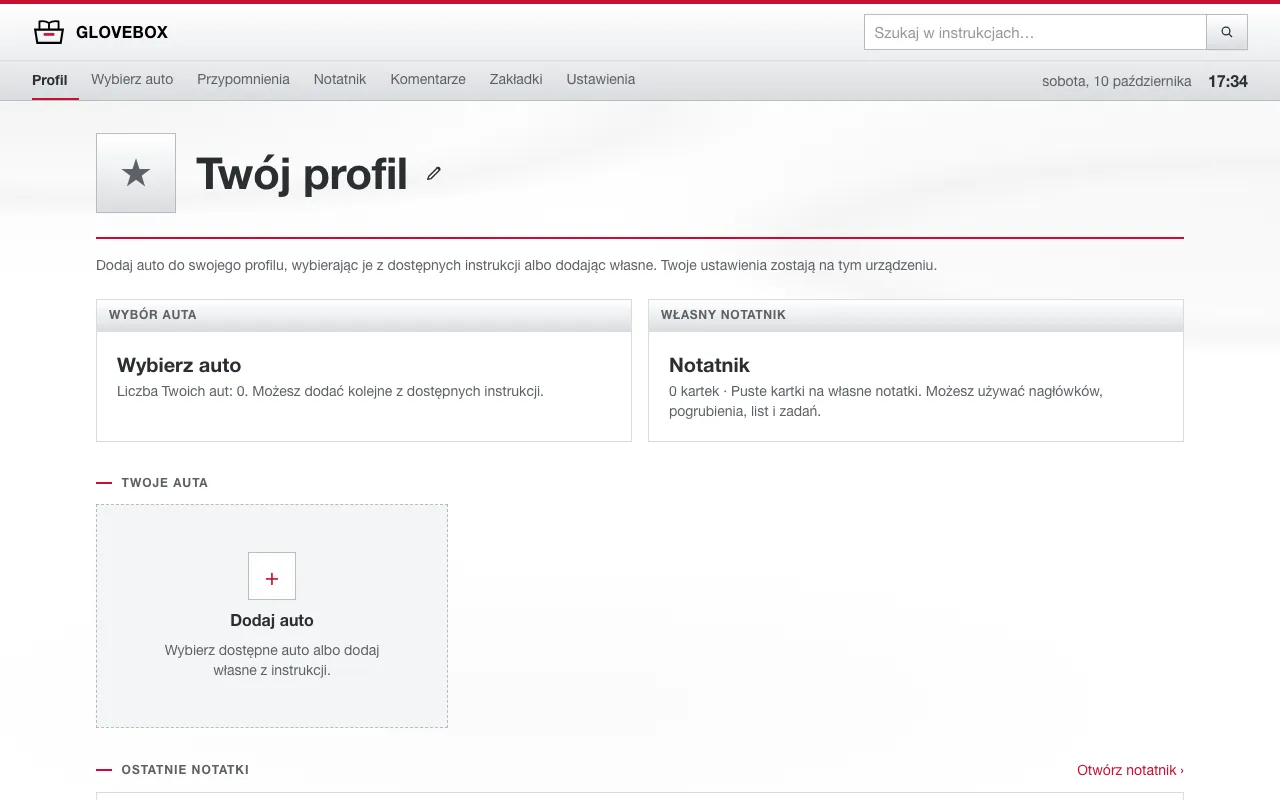
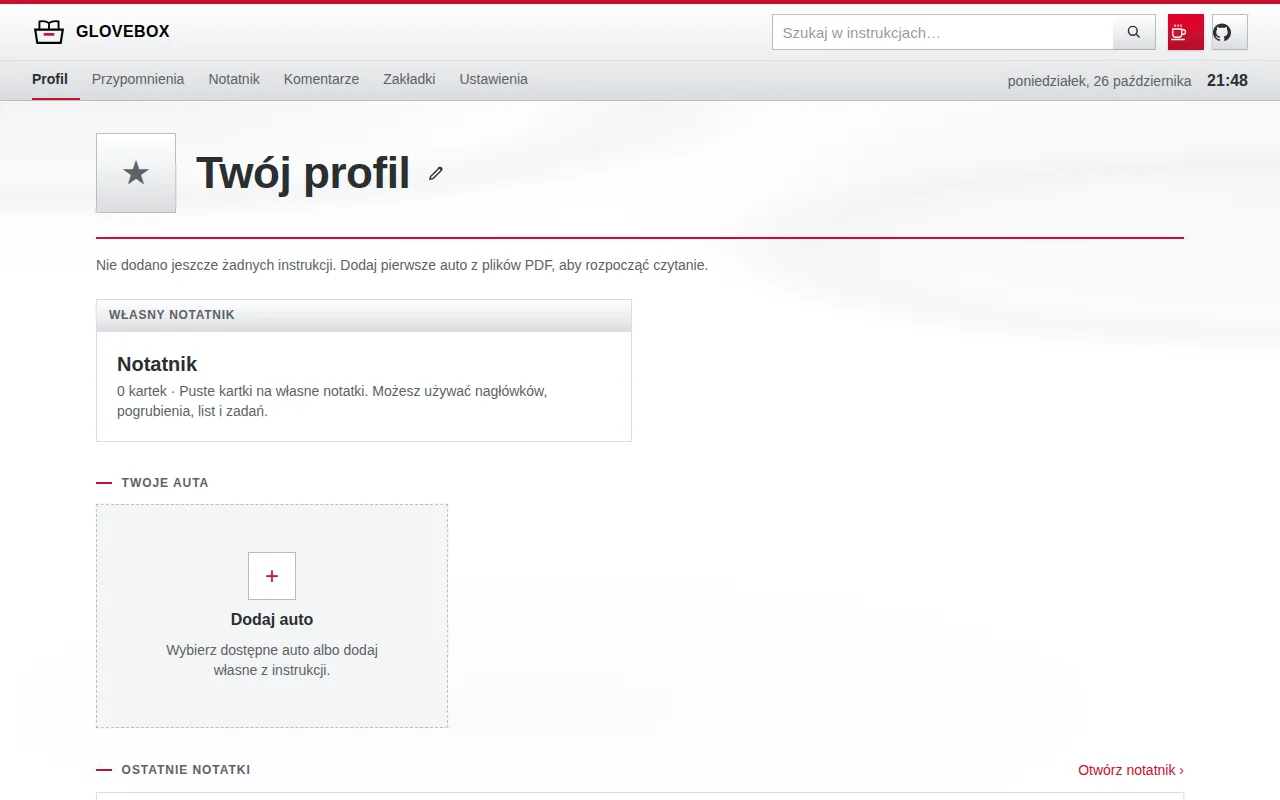
Add project support links and responsive footer

diff --git a/src/components/ProjectLinks.tsx b/src/components/ProjectLinks.tsx
@@ -1,0 +1,62 @@
+import { APP_NAME, APP_REPOSITORY_URL, APP_SUPPORT_URL } from "@/lib/brand";
+
+export function ProjectLinks({ compact = false }: { compact?: boolean }) {
+  const links = [
+    {
+      href: APP_SUPPORT_URL,
+      label: "Postaw kawę",
+      description: `Wesprzyj rozwój ${APP_NAME} na BuyCoffee`,
+      icon: (
+        <svg
+          viewBox="0 0 24 24"
+          width="18"
+          height="18"
+          fill="none"
+          stroke="currentColor"
+          strokeWidth="1.7"
+          aria-hidden="true"
+        >
+          <path d="M5 8h12v7a4 4 0 0 1-4 4H9a4 4 0 0 1-4-4V8Zm12 1h2a3 3 0 0 1 0 6h-2M3 22h18M8 2v3m4-3v3m4-3v3" />
+        </svg>
+      ),
+    },
+    {
+      href: APP_REPOSITORY_URL,
+      label: "GitHub",
+      description: `Kod źródłowy ${APP_NAME} na GitHub`,
+      icon: (
+        <svg
+          viewBox="0 0 24 24"
+          width="18"
+          height="18"
+          fill="currentColor"
+          aria-hidden="true"
+        >
+          <path d="M12 .5C5.37.5 0 5.87 0 12.5c0 5.3 3.438 9.8 8.205 11.385.6.113.82-.258.82-.577 0-.285-.01-1.04-.015-2.04-3.338.724-4.043-1.61-4.043-1.61-.546-1.387-1.333-1.756-1.333-1.756-1.09-.745.083-.73.083-.73 1.205.085 1.838 1.237 1.838 1.237 1.07 1.835 2.807 1.305 3.492.998.108-.776.418-1.305.762-1.605-2.665-.305-5.467-1.334-5.467-5.93 0-1.31.468-2.38 1.235-3.22-.124-.303-.535-1.524.117-3.176 0 0 1.008-.323 3.3 1.23a11.5 11.5 0 0 1 3.003-.404c1.02.005 2.047.138 3.006.404 2.29-1.553 3.297-1.23 3.297-1.23.654 1.652.243 2.873.12 3.176.77.84 1.233 1.91 1.233 3.22 0 4.608-2.807 5.62-5.48 5.917.43.372.823 1.102.823 2.222 0 1.606-.015 2.9-.015 3.293 0 .322.216.694.825.576C20.565 22.296 24 17.8 24 12.5 24 5.87 18.627.5 12 .5Z" />
+        </svg>
+      ),
+    },
+  ];
+
+  return (
+    <div className="flex shrink-0 items-center gap-1.5 sm:gap-2">
+      {links.map((link, index) => {
+        const description = `${link.description} (otwiera nową kartę)`;
+        return (
+          <a
+            key={link.href}
+            href={link.href}
+            target="_blank"
+            rel="noopener noreferrer"
+            aria-label={description}
+            title={description}
+            className={`btn ${index === 0 ? "btn-primary" : ""} ${compact ? "h-9 w-9 p-0" : "gap-2"}`}
+          >
+            {link.icon}
+            {!compact && <span>{link.label}</span>}
+          </a>
+        );
+      })}
+    </div>
+  );
+}

diff --git a/src/lib/__tests__/projectLinks.test.ts b/src/lib/__tests__/projectLinks.test.ts
@@ -1,0 +1,47 @@
+import { createElement } from "react";
+import { renderToStaticMarkup } from "react-dom/server";
+import { describe, expect, it } from "vitest";
+import { Footer } from "@/components/Footer";
+import { ProjectLinks } from "@/components/ProjectLinks";
+import {
+  APP_NAME,
+  APP_REPOSITORY_URL,
+  APP_SUPPORT_URL,
+  APP_VERSION,
+} from "@/lib/brand";
+
+describe("project links", () => {
+  it.each([true, false])(
+    "shares safe, accessible external links (compact: %s)",
+    (compact) => {
+      const html = renderToStaticMarkup(
+        createElement(ProjectLinks, { compact }),
+      );
+      expect(APP_REPOSITORY_URL).toBe("https://github.com/Quanosek/glovebox");
+      expect(APP_SUPPORT_URL).toBe("https://buycoffee.to/kubaklalo");
+      expect(html).toContain(`href="${APP_REPOSITORY_URL}"`);
+      expect(html).toContain(`href="${APP_SUPPORT_URL}"`);
+      expect(html.match(/target="_blank"/g)).toHaveLength(2);
+      expect(html.match(/rel="noopener noreferrer"/g)).toHaveLength(2);
+      expect(html.match(/aria-label="[^"]+otwiera nową kartę/g)).toHaveLength(
+        2,
+      );
+      expect(html).not.toMatch(/<(?:img|script|iframe)\b/);
+      expect(html.includes("<span>Postaw kawę</span>")).toBe(!compact);
+      expect(html.includes("<span>GitHub</span>")).toBe(!compact);
+    },
+  );
+
+  it("keeps local-data information, branding and the project license in the footer", () => {
+    const html = renderToStaticMarkup(createElement(Footer));
+    expect(html).toContain(APP_NAME);
+    expect(html).toContain(`v${APP_VERSION}`);
+    expect(html).toContain(
+      "Notatki i ustawienia zapisują się w tej przeglądarce.",
+    );
+    expect(html).toContain(`${APP_REPOSITORY_URL}/blob/HEAD/LICENSE`);
+    expect(html).toContain("GNU AGPL v3.0");
+    for (const href of ["/", "/notatnik", "/ustawienia"])
+      expect(html).toContain(`href="${href}"`);
+  });
+});

diff --git a/src/components/Footer.tsx b/src/components/Footer.tsx
@@ -1,0 +1,47 @@
+import Link from "next/link";
+import { APP_NAME, APP_REPOSITORY_URL, APP_VERSION } from "@/lib/brand";
+import { Logo } from "./Logo";
+import { ProjectLinks } from "./ProjectLinks";
+
+export function Footer() {
+  return (
+    <footer className="app-footer mt-auto border-t border-line bg-paper print:hidden">
+      <div className="app-frame space-y-4">
+        <div className="flex flex-wrap items-center justify-between gap-x-8 gap-y-4">
+          <div className="flex flex-wrap items-center gap-x-6 gap-y-3">
+            <Link href="/" className="flex items-center gap-2 text-ink">
+              <Logo size={28} />
+              <span className="type-item">{APP_NAME}</span>
+              <span className="text-xs text-graphite">v{APP_VERSION}</span>
+            </Link>
+            <nav
+              aria-label="Nawigacja w stopce"
+              className="flex flex-wrap gap-x-4 gap-y-2 text-sm text-graphite"
+            >
+              <Link href="/">Profil</Link>
+              <Link href="/notatnik">Notatnik</Link>
+              <Link href="/ustawienia">Ustawienia</Link>
+            </nav>
+          </div>
+          <ProjectLinks />
+        </div>
+        <div className="flex flex-col gap-2 border-t border-line pt-3 text-xs text-graphite sm:flex-row sm:items-start sm:justify-between sm:gap-8">
+          <p>Notatki i ustawienia zapisują się w tej przeglądarce.</p>
+          <p>
+            Otwarty kod ·{" "}
+            <a
+              href={`${APP_REPOSITORY_URL}/blob/HEAD/LICENSE`}
+              target="_blank"
+              rel="noopener noreferrer"
+              className="underline underline-offset-2"
+              aria-label="Licencja GNU AGPL v3.0 (otwiera nową kartę)"
+            >
+              GNU AGPL v3.0
+            </a>
+            {" · "}Bez gwarancji
+          </p>
+        </div>
+      </div>
+    </footer>
+  );
+}

diff --git a/src/components/Header.tsx b/src/components/Header.tsx
@@ -11,6 +11,7 @@ import { useLayoutHint } from "@/lib/storage/hintContext";
 import { useActiveCar, useAppData, useHydrated } from "@/lib/storage/hooks";
 import { CarLogo } from "./CarLogo";
 import { Logo } from "./Logo";
+import { ProjectLinks } from "./ProjectLinks";
 import { Skeleton } from "./Skeleton";
 
 /** Current time, refreshed every 15 s; null until hydrated. */
@@ -133,7 +134,7 @@ export function Header({ cars }: { cars: CarSummary[] }) {
       ref={ref}
       className="silver-bar sticky top-0 z-40 border-t-4 border-t-red print:hidden"
     >
-      <div className="app-frame flex h-14 items-center gap-3">
+      <div className="app-frame flex h-14 items-center gap-2 sm:gap-3">
         <Link
           href="/"
           className="flex shrink-0 items-center gap-2.5 text-black"
@@ -207,6 +208,10 @@ export function Header({ cars }: { cars: CarSummary[] }) {
           </button>
         </form>
 
+        <div className="hidden sm:block">
+          <ProjectLinks compact />
+        </div>
+
         <button
           type="button"
           className="btn btn-ghost h-9 lg:hidden"
@@ -252,6 +257,9 @@ export function Header({ cars }: { cars: CarSummary[] }) {
             })}
           </ul>
           <Clock />
+        </div>
+        <div className="app-frame border-t border-line py-3 sm:hidden">
+          <ProjectLinks />
         </div>
       </nav>
     </header>

diff --git a/src/app/layout.tsx b/src/app/layout.tsx
@@ -4,6 +4,7 @@ import { BackButton } from "@/components/BackButton";
 import { ClientEffects } from "@/components/ClientEffects";
 import { DialogHost } from "@/components/Dialog";
 import { Header } from "@/components/Header";
+import { Footer } from "@/components/Footer";
 import { LayoutHintProvider } from "@/lib/storage/hintContext";
 import { APP_DESCRIPTION, APP_NAME } from "@/lib/brand";
 import { listCarSummaries } from "@/lib/content";
@@ -63,11 +64,7 @@ export default async function RootLayout({ children }: LayoutProps<"/">) {
           <ClientEffects />
           {children}
           <DialogHost />
-          <footer className="app-footer mt-auto border-t border-line bg-paper text-xs text-steel print:hidden">
-            <p className="app-frame">
-              Notatki i ustawienia zapisują się w tej przeglądarce.
-            </p>
-          </footer>
+          <Footer />
         </LayoutHintProvider>
       </body>
     </html>

diff --git a/src/lib/brand.ts b/src/lib/brand.ts
@@ -3,6 +3,8 @@ import packageInfo from "../../package.json" with { type: "json" };
 /** App name used in titles, the header, the install manifest and outbound requests. */
 export const APP_NAME = "Glovebox";
 export const APP_VERSION = packageInfo.version;
+export const APP_REPOSITORY_URL = "https://github.com/Quanosek/glovebox";
+export const APP_SUPPORT_URL = "https://buycoffee.to/kubaklalo";
 
 /** Short Polish description (page metadata and install manifest). */
 export const APP_DESCRIPTION =

diff --git a/src/app/manifest.ts b/src/app/manifest.ts
@@ -99,7 +99,7 @@ export default function manifest(): MetadataRoute.Manifest {
       },
       {
         src: "/screenshots/profile-narrow.webp",
-        sizes: "824x1830",
+        sizes: "412x915",
         type: "image/webp",
         form_factor: "narrow",
         label: "Profil na telefonie",

diff --git a/src/app/globals.css b/src/app/globals.css
@@ -141,7 +141,7 @@ body {
 }
 
 .app-footer {
-  padding-block: 0.75rem calc(0.75rem + env(safe-area-inset-bottom, 0px));
+  padding-block: 1.25rem calc(1.25rem + env(safe-area-inset-bottom, 0px));
 }
 .app-footer > .app-frame {
   padding-inline: max(var(--gutter), env(safe-area-inset-left, 0px))

diff --git a/docs/ui.md b/docs/ui.md
@@ -33,7 +33,15 @@ Europe screens. Every screen should be self-explanatory, calm and consistent. Vi
      left edge (direct children other than `.reader-grid` stay 48rem).
 - Header: the brand / car logo starts exactly where the first navigation key starts
   (`.nav-link` has no left padding on the first item), and the clock ends exactly where the
-  search button ends.
+  top row's last action ends.
+- Project links: `ProjectLinks` shares the BuyCoffee and project repository destinations
+  from `src/lib/brand.ts` between compact icon buttons beside the header search and labelled
+  footer buttons. Support uses the red button; source code uses silver. Both open a new
+  tab with accessible labels announcing it, without remote widgets, images or background
+  requests. The footer (`Footer`) keeps the app name and package version, profile/notebook/
+  settings navigation, the browser-local storage reminder and an AGPL license link.
+  Its rows wrap on narrow screens. Below 40rem the header links move into the expandable
+  menu with visible labels, leaving room for search; wider screens use compact icons.
 - `body` sets `overflow-wrap: anywhere`, so strings without spaces (file names, codes, long
   links) break inside boxes instead of overflowing them, and flex/grid items may shrink below
   their longest word. Tables use `break-word` and scroll sideways in their wrapper. `.btn` and
